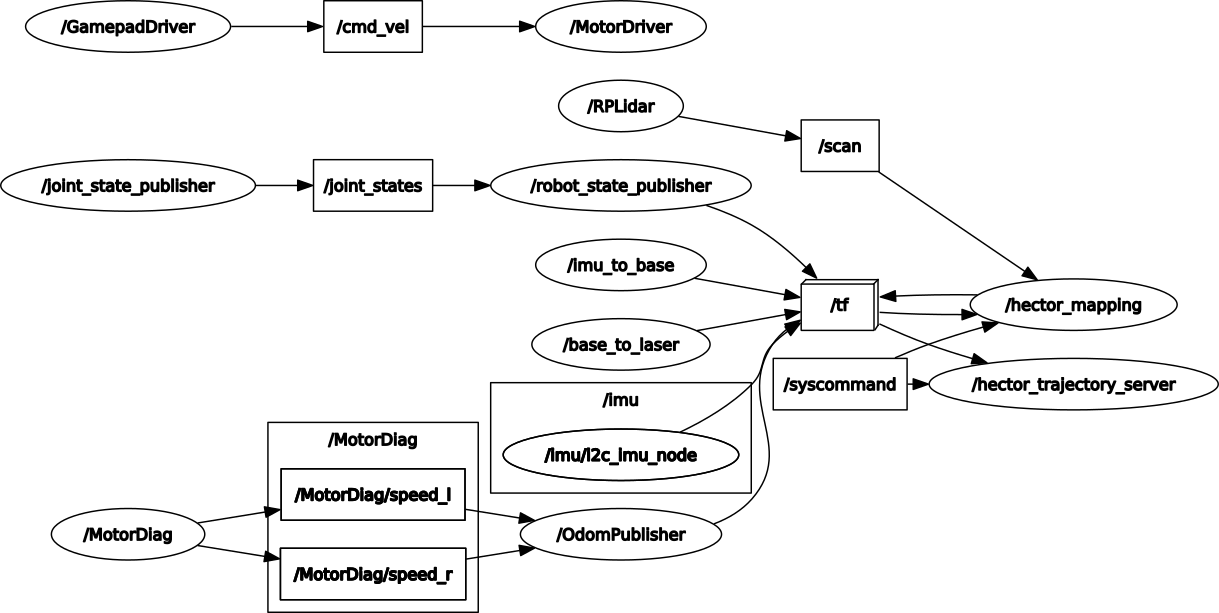
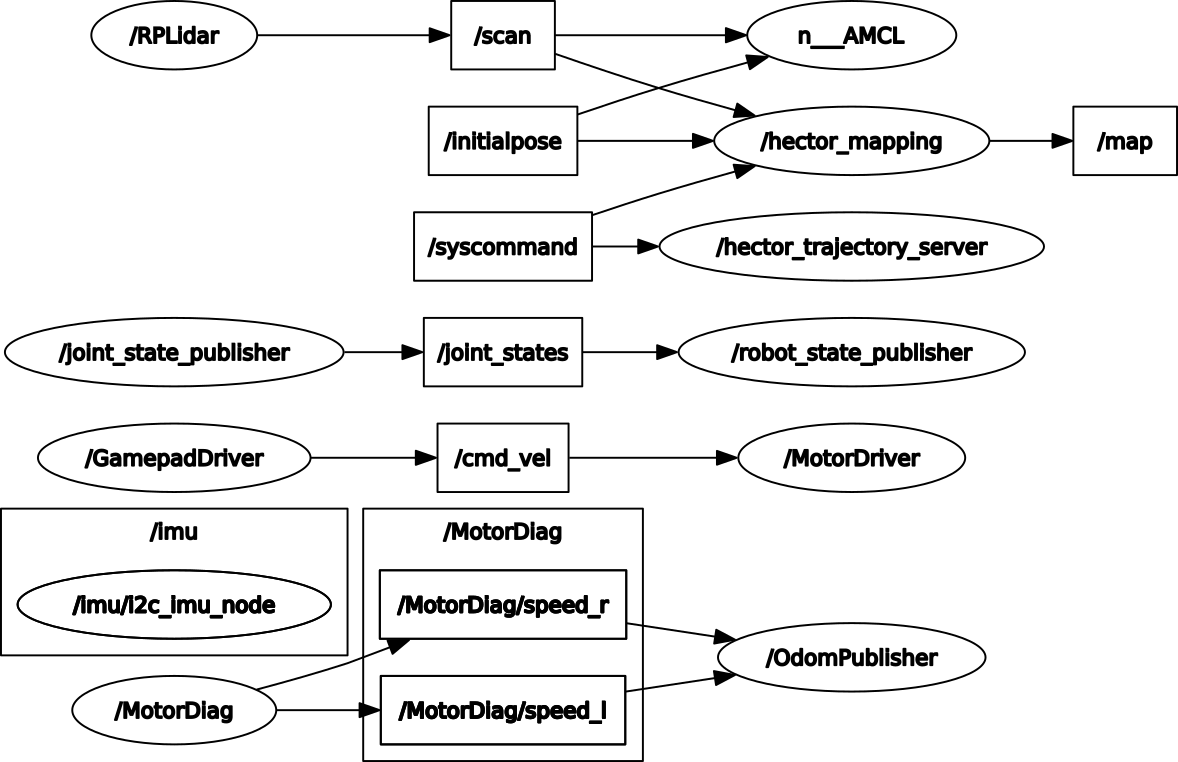
[DOC] update images in MD

Changed region(s): [[0.0, 0.0, 1.0, 1.0], [0.0, 0.4029, 0.275, 0.5579]]

diff --git a/docs/bachelor-hc/Documentation.md b/docs/bachelor-hc/Documentation.md
@@ -103,14 +103,16 @@ Navigation
 Moves Robot
 ```
 
-Die Navigtion benötigt nicht alle Packages, welche im folgenden Schaubild zu sehen sind. Bestimmte sind optional, aber hilfreich. In diesem Projekt wurden alle 6 Nodes verwendet.
+Die Navigtion benötigt nicht alle Packages, welche im folgenden Schaubild zu sehen sind. Bestimmte sind optional, aber hilfreich. In diesem Projekt wurden alle Nodes im Schaubild verwendet.
 ![Navigation Übersicht](images/overview_navigation.png)
 
 Aktuell gelten folgende Einschränkungen:
 * Der GPS Treiber existiert nur für ROS2
 * Glastüren bzw. Hindernisse aus Glas können nicht erkannt werden
 * Hindernisse werden nur auf Höhe des Lasers erkannt
-* SLAM & Navigation funktionieren nur auf einer Ebene, mehrere Ebenen gleichzeitig werden nicht unterstützt
+* SLAM & Navigation funktionieren nur auf einer Ebene, mehrere Ebenen bzw. Stockwerke gleichzeitig werden nicht unterstützt
+
+Glasfenster, -türen, usw. werden mit dem LIDAR in der Karte als freie Bereiche festgelegt.
 
 Zu Konfiguration sei gesagt, dass ein Großteil, insbesondere die wichtigsten Parameter, in den Launchfiles bearbeitet werden können. Dort ist es auch möglich einzelne Nodes auszuschalten bzw. einzuschalten. So ist es ganz einfach möglich mehrere Nodes, bspw. den SLAM Prozess, mit einer Zeile zu starten.
 
@@ -142,9 +144,13 @@ Der ROS Master wird auf dem RPi ausgeführt. Der Grund dafür ist, dass die Sens
 
 ## ROS Nodes & Topics Übersicht
 
-![Node mit Topics Übersicht](images/topics-and-nodes-with-slam.png)
+![SLAM Nodes mit Topics Übersicht](images/topics-and-nodes-with-slam.png)
 
-Dies gibt eine Übersicht über die Topics zwischen den Nodes und den Nodes selbst.
+Dies gibt eine Übersicht über die Topics zwischen den Nodes und den Nodes selbst, wenn SLAM gestartet wurde.
+
+![Navigation mit Topics Übersicht](images/topics-and-nodes-with-navigation.png)
+
+Dies gibt eine Übersicht über die Topics zwischen den Nodes und den Nodes selbst, wenn die Navigation gestartet wurde.
 
 Es existiert die Möglichkeit mithilfe von
 
@@ -254,9 +260,11 @@ rosrun rqt_tf_tree rqt_tf_tree
 kann eine Übersicht aller tf frames angezeigen. Ähnlich zu den Topics&Nodes.
 
 ### Aktuelle TF Baumstruktur
-![Alle TF Frames zusammen mit HectorSLAM als Diagramm](images/tf-frames.png)
+![Alle TF Frames zusammen mit HectorSLAM als Diagramm](images/tf-frames_slam.png)
 
-Die derzeitige Baumstruktur, während HectorSLAM geöffnet ist. Die einzelnen Ellipsen werden ```frames``` gennant. Die ```map``` stellt die Welt-Referenz dar und wird entweder von HectorSLAM oder vom map_server bereitgestellt. Die Beziehung von ```odom``` zu ```base_link``` wird von der Node ```/OdomPublisher``` veröffentlicht und stellt die Motordaten zur Verfügung.
+![Alle TF Frames bei der Navigation](images/tf-frames_navigation.png)
+
+Die derzeitige Baumstruktur, während HectorSLAM bzw. die Navigation geöffnet ist. Die einzelnen Ellipsen werden ```frames``` gennant. Die ```map``` stellt die Welt-Referenz dar und wird entweder von HectorSLAM oder vom map_server bereitgestellt. Die Beziehung von ```odom``` zu ```base_link``` wird von der Node ```/OdomPublisher``` veröffentlicht und stellt die Motordaten zur Verfügung.
 
 Der ```base_link``` Frame sollte im Rotationszentrum des Roboters liegen. Der LIDAR wird dann ausgehend vom ```base_link``` Frame per statischem Publisher festgelegt, genauso wie die IMU.
 Der ```imu_link``` Frame wird von dem MPU 9250 Treiber bereitgestellt.
